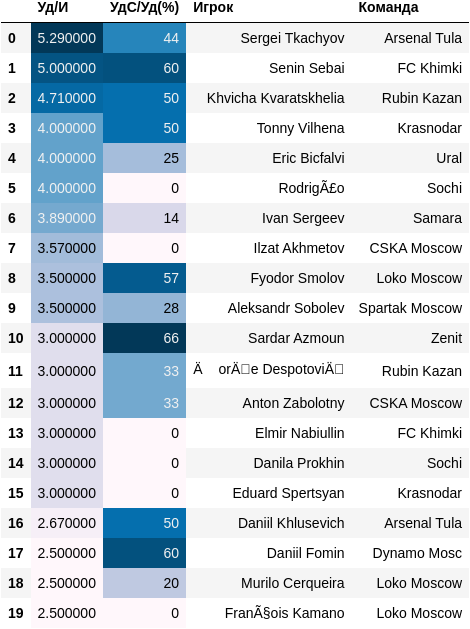
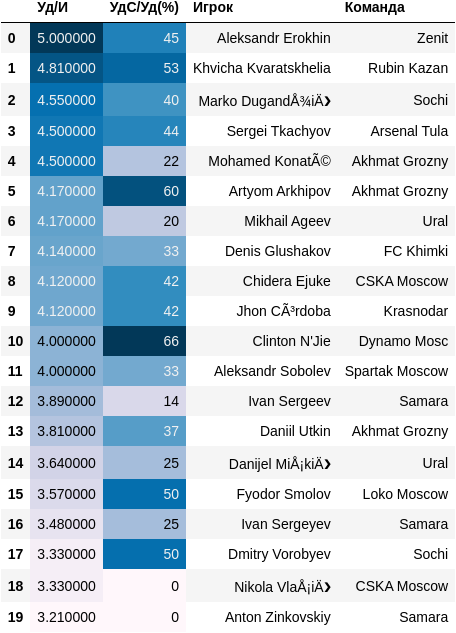
Fix bugs in stats updating

diff --git a/domain/player_stats.py b/domain/player_stats.py
@@ -7,7 +7,7 @@ from typing import List
 import pandas as pd
 import numpy as np
 import dataframe_image as dfi
-from sqlalchemy import and_
+from sqlalchemy import and_, desc
 from sqlalchemy.orm import Session as SQLSession
 from sqlalchemy.sql import label
 
@@ -188,7 +188,7 @@ class PlayerStatsManager(Manager):
             session.close()
 
     def __compute_xg(self, player_info: dict, player_stat: PlayerStats):
-        last3_minutes = player_info["minutes"] - player_stat.r2_minutes
+        last3_minutes = player_stat.r5_minutes - player_stat.r2_minutes
         if last3_minutes < self.LAST3_MIN:
             last3_minutes = 0
         if last3_minutes > 0:
@@ -198,7 +198,7 @@ class PlayerStatsManager(Manager):
         else:
             last3_xg_per_game, last3_npxg_per_game, last3_xa_per_game = 0, 0, 0
 
-        last5_minutes = player_info["minutes"] - player_stat.r0_minutes
+        last5_minutes = player_stat.r5_minutes - player_stat.r0_minutes
         if last5_minutes < self.LAST5_MIN:
             last5_minutes = 0
         if last5_minutes > 0:
@@ -256,7 +256,7 @@ class PlayerStatsManager(Manager):
             session.close()
 
     def __compute_shoots_creation(self, player_info: dict, player_stat: PlayerStats):
-        last3_minutes = player_info["minutes"] - player_stat.r2_minutes
+        last3_minutes = player_stat.r5_minutes - player_stat.r2_minutes
         if last3_minutes < self.LAST3_MIN:
             last3_minutes = 0
         if last3_minutes > 0:
@@ -265,7 +265,7 @@ class PlayerStatsManager(Manager):
         else:
             last3_sca_per_game, last3_gca_per_game = 0, 0
 
-        last5_minutes = player_info["minutes"] - player_stat.r0_minutes
+        last5_minutes = player_stat.r5_minutes - player_stat.r0_minutes
         if last5_minutes < self.LAST5_MIN:
             last5_minutes = 0
         if last5_minutes > 0:
@@ -403,10 +403,10 @@ class PlayerStatsManager(Manager):
 
             best_xg_xa_last_3 = session.query(PlayerStats, (PlayerStats.last3_xg_per_game +
                                                             PlayerStats.last3_xa_per_game).label('xg_xa')) \
-                .filter(PlayerStats.league == league_name).order_by(xg_xa.desc()).limit(20).all()
+                .filter(PlayerStats.league == league_name).order_by(desc('xg_xa')).limit(20).all()
             best_xg_xa_last_5 = session.query(PlayerStats, (PlayerStats.last5_xg_per_game +
                                                             PlayerStats.last5_xa_per_game).label('xg_xa')) \
-                .filter(PlayerStats.league == league_name).order_by(xg_xa.desc()).limit(20).all()
+                .filter(PlayerStats.league == league_name).order_by(desc('xg_xa')).limit(20).all()
 
             # create pd pataframes
             last_3_xg = [[round(player.last3_xg_per_game, 2), round(player.last3_npxg_per_game, 2),
@@ -415,11 +415,12 @@ class PlayerStatsManager(Manager):
             last_5_xg = [[round(player.last5_xg_per_game, 2), round(player.last5_npxg_per_game, 2),
                           round(player.last5_xa_per_game, 2), player.name, player.team]
                          for player in best_xg_last_5]
-            last_3_xg_xa = [[round(player.last3_xg_per_game + player.last3_xa_per_game, 2),
-                             round(player.last3_npxg_per_game, 2), player.name, player.team]
+
+            last_3_xg_xa = [[round(player[1], 2),
+                             round(player[0].last3_npxg_per_game, 2), player[0].name, player[0].team]
                             for player in best_xg_xa_last_3]
-            last_5_xg_xa = [[round(player.last5_xg_per_game + player.last5_xa_per_game, 2),
-                             round(player.last5_npxg_per_game, 2), player.name, player.team]
+            last_5_xg_xa = [[round(player[1], 2),
+                             round(player[0].last5_npxg_per_game, 2), player[0].name, player[0].team]
                             for player in best_xg_xa_last_5]
 
             last_3_xg_df = pd.DataFrame(last_3_xg, columns=['xG/И', 'npxG/И', 'xA/И', 'Игрок', 'Команда'])
@@ -460,10 +461,10 @@ class PlayerStatsManager(Manager):
                 .limit(20).all()
 
             best_gca_last_3 = session.query(PlayerStats).filter(PlayerStats.league == league_name) \
-                .order_by(PlayerStats.last3_gca_per_game.desc(), PlayerStats.last3_cca_per_game.desc()) \
+                .order_by(PlayerStats.last3_gca_per_game.desc(), PlayerStats.last3_sca_per_game.desc()) \
                 .limit(20).all()
             best_gca_last_5 = session.query(PlayerStats).filter(PlayerStats.league == league_name) \
-                .order_by(PlayerStats.last5_gca_per_game.desc(), PlayerStats.last5_cca_per_game.desc()) \
+                .order_by(PlayerStats.last5_gca_per_game.desc(), PlayerStats.last5_sca_per_game.desc()) \
                 .limit(20).all()
 
             # create pd pataframes
@@ -608,7 +609,30 @@ class PlayerStatsManager(Manager):
 
 
 if __name__ == "__main__":
+    pass
     # psm = PlayerStatsManager()
     # # print(psm.update_league("Russia", new_round=False))
     # await psm.update_league("Russia", False)
-    pass
+    # session: SQLSession = Session()
+    # session.query(PlayerStats).update({
+    #     # round 0
+    #     PlayerStats.r3_minutes: PlayerStats.r2_minutes,
+    #     PlayerStats.r3_shoots: PlayerStats.r2_shoots,
+    #     PlayerStats.r3_shoots_on_target: PlayerStats.r2_shoots_on_target,
+    #     PlayerStats.r3_xg: PlayerStats.r2_xg,
+    #     PlayerStats.r3_npxg: PlayerStats.r2_npxg,
+    #     PlayerStats.r3_xa: PlayerStats.r2_xa,
+    #     PlayerStats.r3_sca: PlayerStats.r2_sca,
+    #     PlayerStats.r3_gca: PlayerStats.r2_gca,
+
+    #     PlayerStats.r2_minutes: 0,
+    #     PlayerStats.r2_shoots: 0,
+    #     PlayerStats.r2_shoots_on_target: 0,
+    #     PlayerStats.r2_xg: 0,
+    #     PlayerStats.r2_npxg: 0,
+    #     PlayerStats.r2_xa: 0,
+    #     PlayerStats.r2_sca: 0,
+    #     PlayerStats.r2_gca: 0,
+    # })
+    # session.commit()
+    # session.close()

diff --git a/db/parse/fbref.py b/db/parse/fbref.py
@@ -12,24 +12,24 @@ class FbrefParser:
     def __init__(self):
         self.shoots_leagues = {
             'Russia': 'https://widgets.sports-reference.com/wg.fcgi?css=1&site=fb&url=%2Fen%2Fcomps%2F30%2Fshooting%2FRussian-Premier-League-Stats&div=div_stats_shooting',
-            # 'France': 'https://widgets.sports-reference.com/wg.fcgi?css=1&site=fb&url=%2Fen%2Fcomps%2F13%2Fshooting%2FLigue-1-Stats&div=div_stats_shooting',
+            'France': 'https://widgets.sports-reference.com/wg.fcgi?css=1&site=fb&url=%2Fen%2Fcomps%2F13%2Fshooting%2FLigue-1-Stats&div=div_stats_shooting',
             # 'England': 'https://fbref.com/en/comps/9/Premier-League-Stats',
             # 'Germany': 'https://fbref.com/en/comps/20/Bundesliga-Stats',
             # 'Spain': 'https://fbref.com/en/comps/12/La-Liga-Stats',
             # 'Netherlands': 'https://fbref.com/en/comps/23/Dutch-Eredivisie-Stats',
             # 'Turkey': 'https://fbref.com/en/comps/26/Super-Lig-Stats',
             # 'Italy': 'https://fbref.com/en/comps/11/Serie-A-Stats',
-            # 'Portugal': 'https://fbref.com/en/comps/32/Primeira-Liga-Stats',
+            'Portugal': 'https://widgets.sports-reference.com/wg.fcgi?css=1&site=fb&url=%2Fen%2Fcomps%2F32%2Fshooting%2FPrimeira-Liga-Stats&div=div_stats_shooting',
             # 'UEFA_1': 'https://fbref.com/en/comps/8/Champions-League-Stats',
             # 'UEFA_2': 'https://fbref.com/en/comps/19/Europa-League-Stats',
         }
 
         self.xg_leagues = {
-            # 'France': 'https://widgets.sports-reference.com/wg.fcgi?css=1&site=fb&url=%2Fen%2Fcomps%2F13%2Fstats%2FLigue-1-Stats&div=div_stats_standard',
+            'France': 'https://widgets.sports-reference.com/wg.fcgi?css=1&site=fb&url=%2Fen%2Fcomps%2F13%2Fstats%2FLigue-1-Stats&div=div_stats_standard',
         }
 
         self.shoots_creation_leagues = {
-            # 'France': 'https://widgets.sports-reference.com/wg.fcgi?css=1&site=fb&url=%2Fen%2Fcomps%2F13%2Fgca%2FLigue-1-Stats&div=div_stats_gca',
+            'France': 'https://widgets.sports-reference.com/wg.fcgi?css=1&site=fb&url=%2Fen%2Fcomps%2F13%2Fgca%2FLigue-1-Stats&div=div_stats_gca',
         }
 
     def get_shooting_stats(self, league_name: str) -> List[Dict]:

diff --git a/db/parse/sports.py b/db/parse/sports.py
@@ -19,14 +19,14 @@ class Sports:
                 'France': 'https://www.sports.ru/fantasy/football/tournament/ratings/popular/51.html',
                 'England': 'https://www.sports.ru/fantasy/football/tournament/ratings/popular/52.html',
                 'Germany': 'https://www.sports.ru/fantasy/football/tournament/ratings/popular/50.html',
-                # 'Spain': 'https://www.sports.ru/fantasy/football/tournament/49.html',
+                'Spain': 'https://www.sports.ru/fantasy/football/tournament/ratings/popular/49.html',
                 'Netherlands': 'https://www.sports.ru/fantasy/football/tournament/ratings/popular/54.html',
                 'Championship': 'https://www.sports.ru/fantasy/football/tournament/ratings/popular/205.html',
-                # 'Turkey': 'https://www.sports.ru/fantasy/football/tournament/246.html',
-                # 'Italy': 'https://www.sports.ru/fantasy/football/tournament/48.html',
+                'Turkey': 'https://www.sports.ru/fantasy/football/tournament/ratings/popular/246.html',
+                'Italy': 'https://www.sports.ru/fantasy/football/tournament/ratings/popular/48.html',
                 'Portugal': 'https://www.sports.ru/fantasy/football/tournament/ratings/popular/207.html',
-                # 'UEFA_1': 'https://www.sports.ru/fantasy/football/tournament/57.html',
-                # 'UEFA_2': 'https://www.sports.ru/fantasy/football/tournament/56.html',
+                # 'UEFA_1': 'https://www.sports.ru/fantasy/football/tournament/ratings/popular/57.html',
+                # 'UEFA_2': 'https://www.sports.ru/fantasy/football/tournament/ratings/popular/56.html',
             }
 
         if leagues_teams is not None:

diff --git a/utils/updates.py b/utils/updates.py
@@ -38,14 +38,17 @@ async def update_players_leagues():
     await notify_admin(dp, "[INFO] finish update players")
 
 
-async def on_startup(upd_at_start=True, timeout: int = 0.5 * 60 * 60,
+async def on_startup(upd_at_start=False, timeout: int = 0.5 * 60 * 60,
                      upd_time: datetime.datetime = datetime.datetime.strptime("03:00:00", "%H:%M:%S")):
-    upd_today = upd_at_start
     await notify_admin(dp, "[INFO] bot started")
+    upd_today = True
+    if upd_at_start:
+        await update_all()
     while True:
         await asyncio.sleep(timeout)
         # restart upd_today
         if upd_today and datetime.datetime.now().time() < upd_time.time():
+            await notify_admin(dp, "[INFO] restart update today")
             upd_today = False
         if (not upd_today) and datetime.datetime.now().time() > upd_time.time():
             await update_all()

diff --git a/db/models/user.py b/db/models/user.py
@@ -10,7 +10,7 @@ class User(Base):
 
     id = Column(Integer, primary_key=True)
     tg_id = Column(Integer, nullable=False, unique=True)
-    name = Column(String, nullable=False)
+    name = Column(String)
     registration_date = Column(DateTime, nullable=False)
     valid = Column(Boolean, nullable=False)
     profile_url = Column(String)

diff --git a/app.py b/app.py
@@ -13,6 +13,6 @@ if __name__ == '__main__':
     create_database()
     # run bot
     loop = asyncio.get_event_loop()
-    loop.create_task(on_startup())
+    loop.create_task(on_startup(False))
     loop.create_task(executor.start_polling(dp))
     loop.run_forever()

diff --git a/domain/leagues_info.py b/domain/leagues_info.py
@@ -47,3 +47,8 @@ class LeagueInfoManager(Manager):
         if not league_info:
             return False
         return datetime.now() > league_info.deadline
+
+
+if __name__ == "__main__":
+    lm = LeagueInfoManager()
+    lm.update_deadlines()
